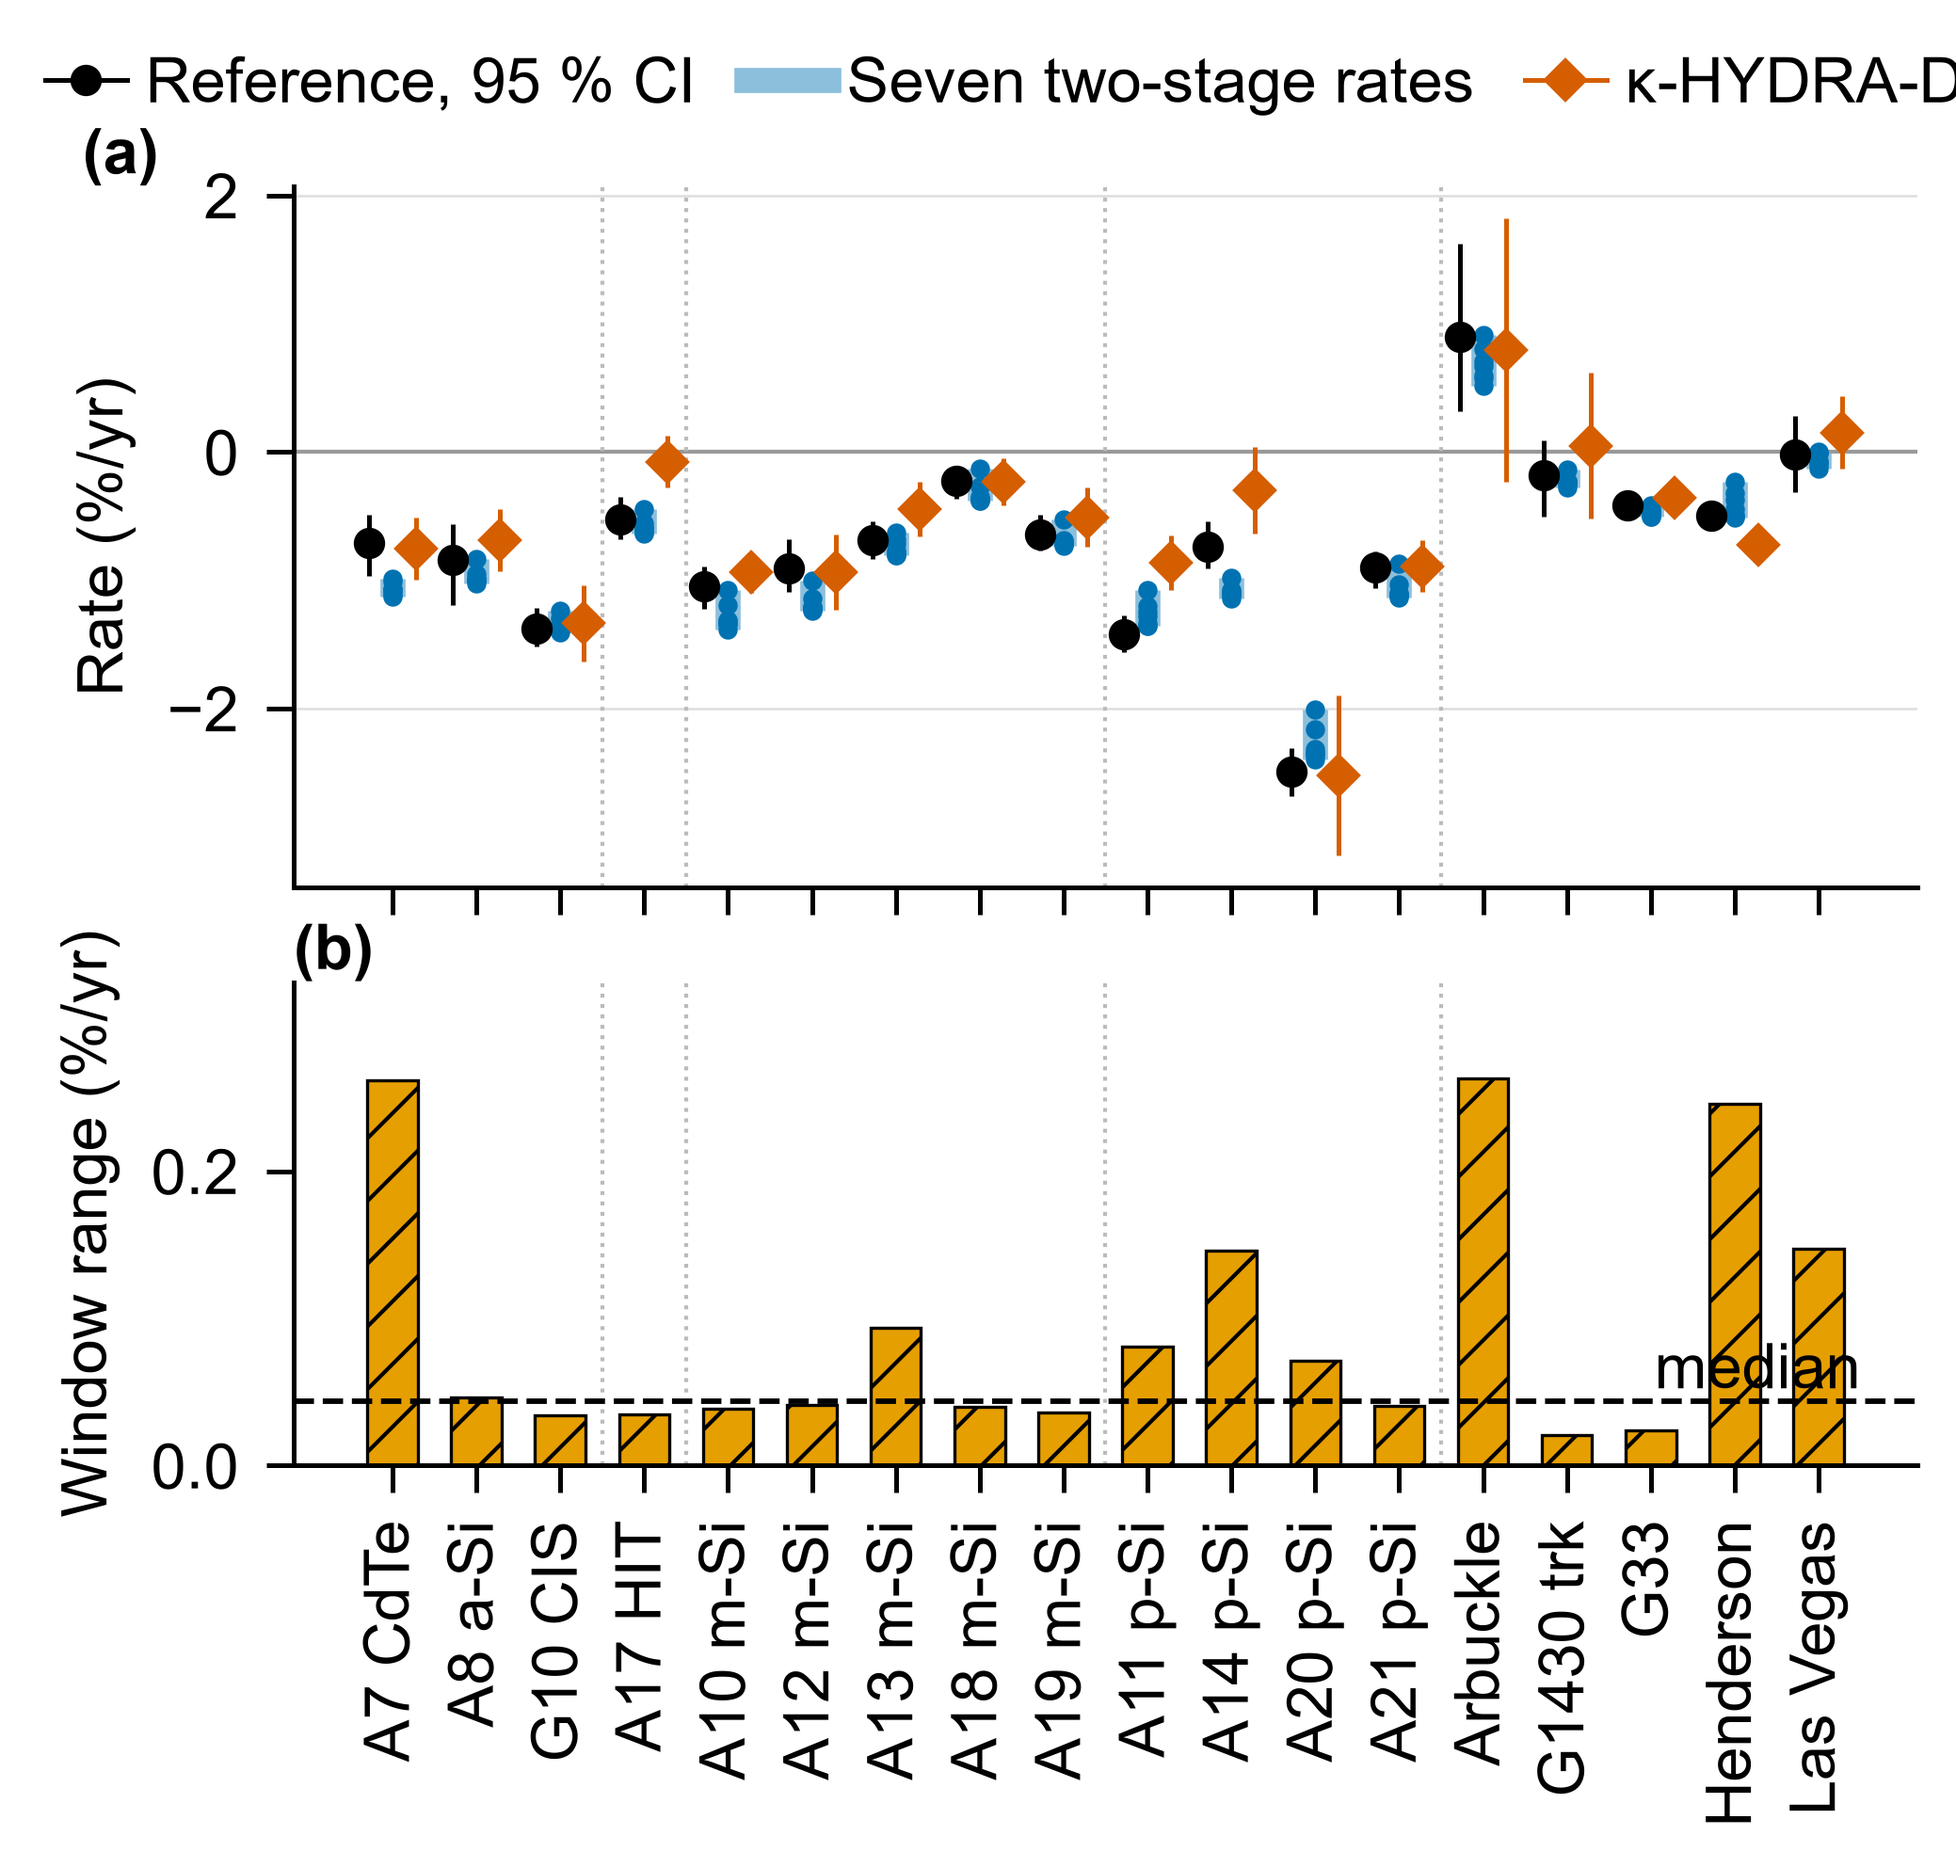
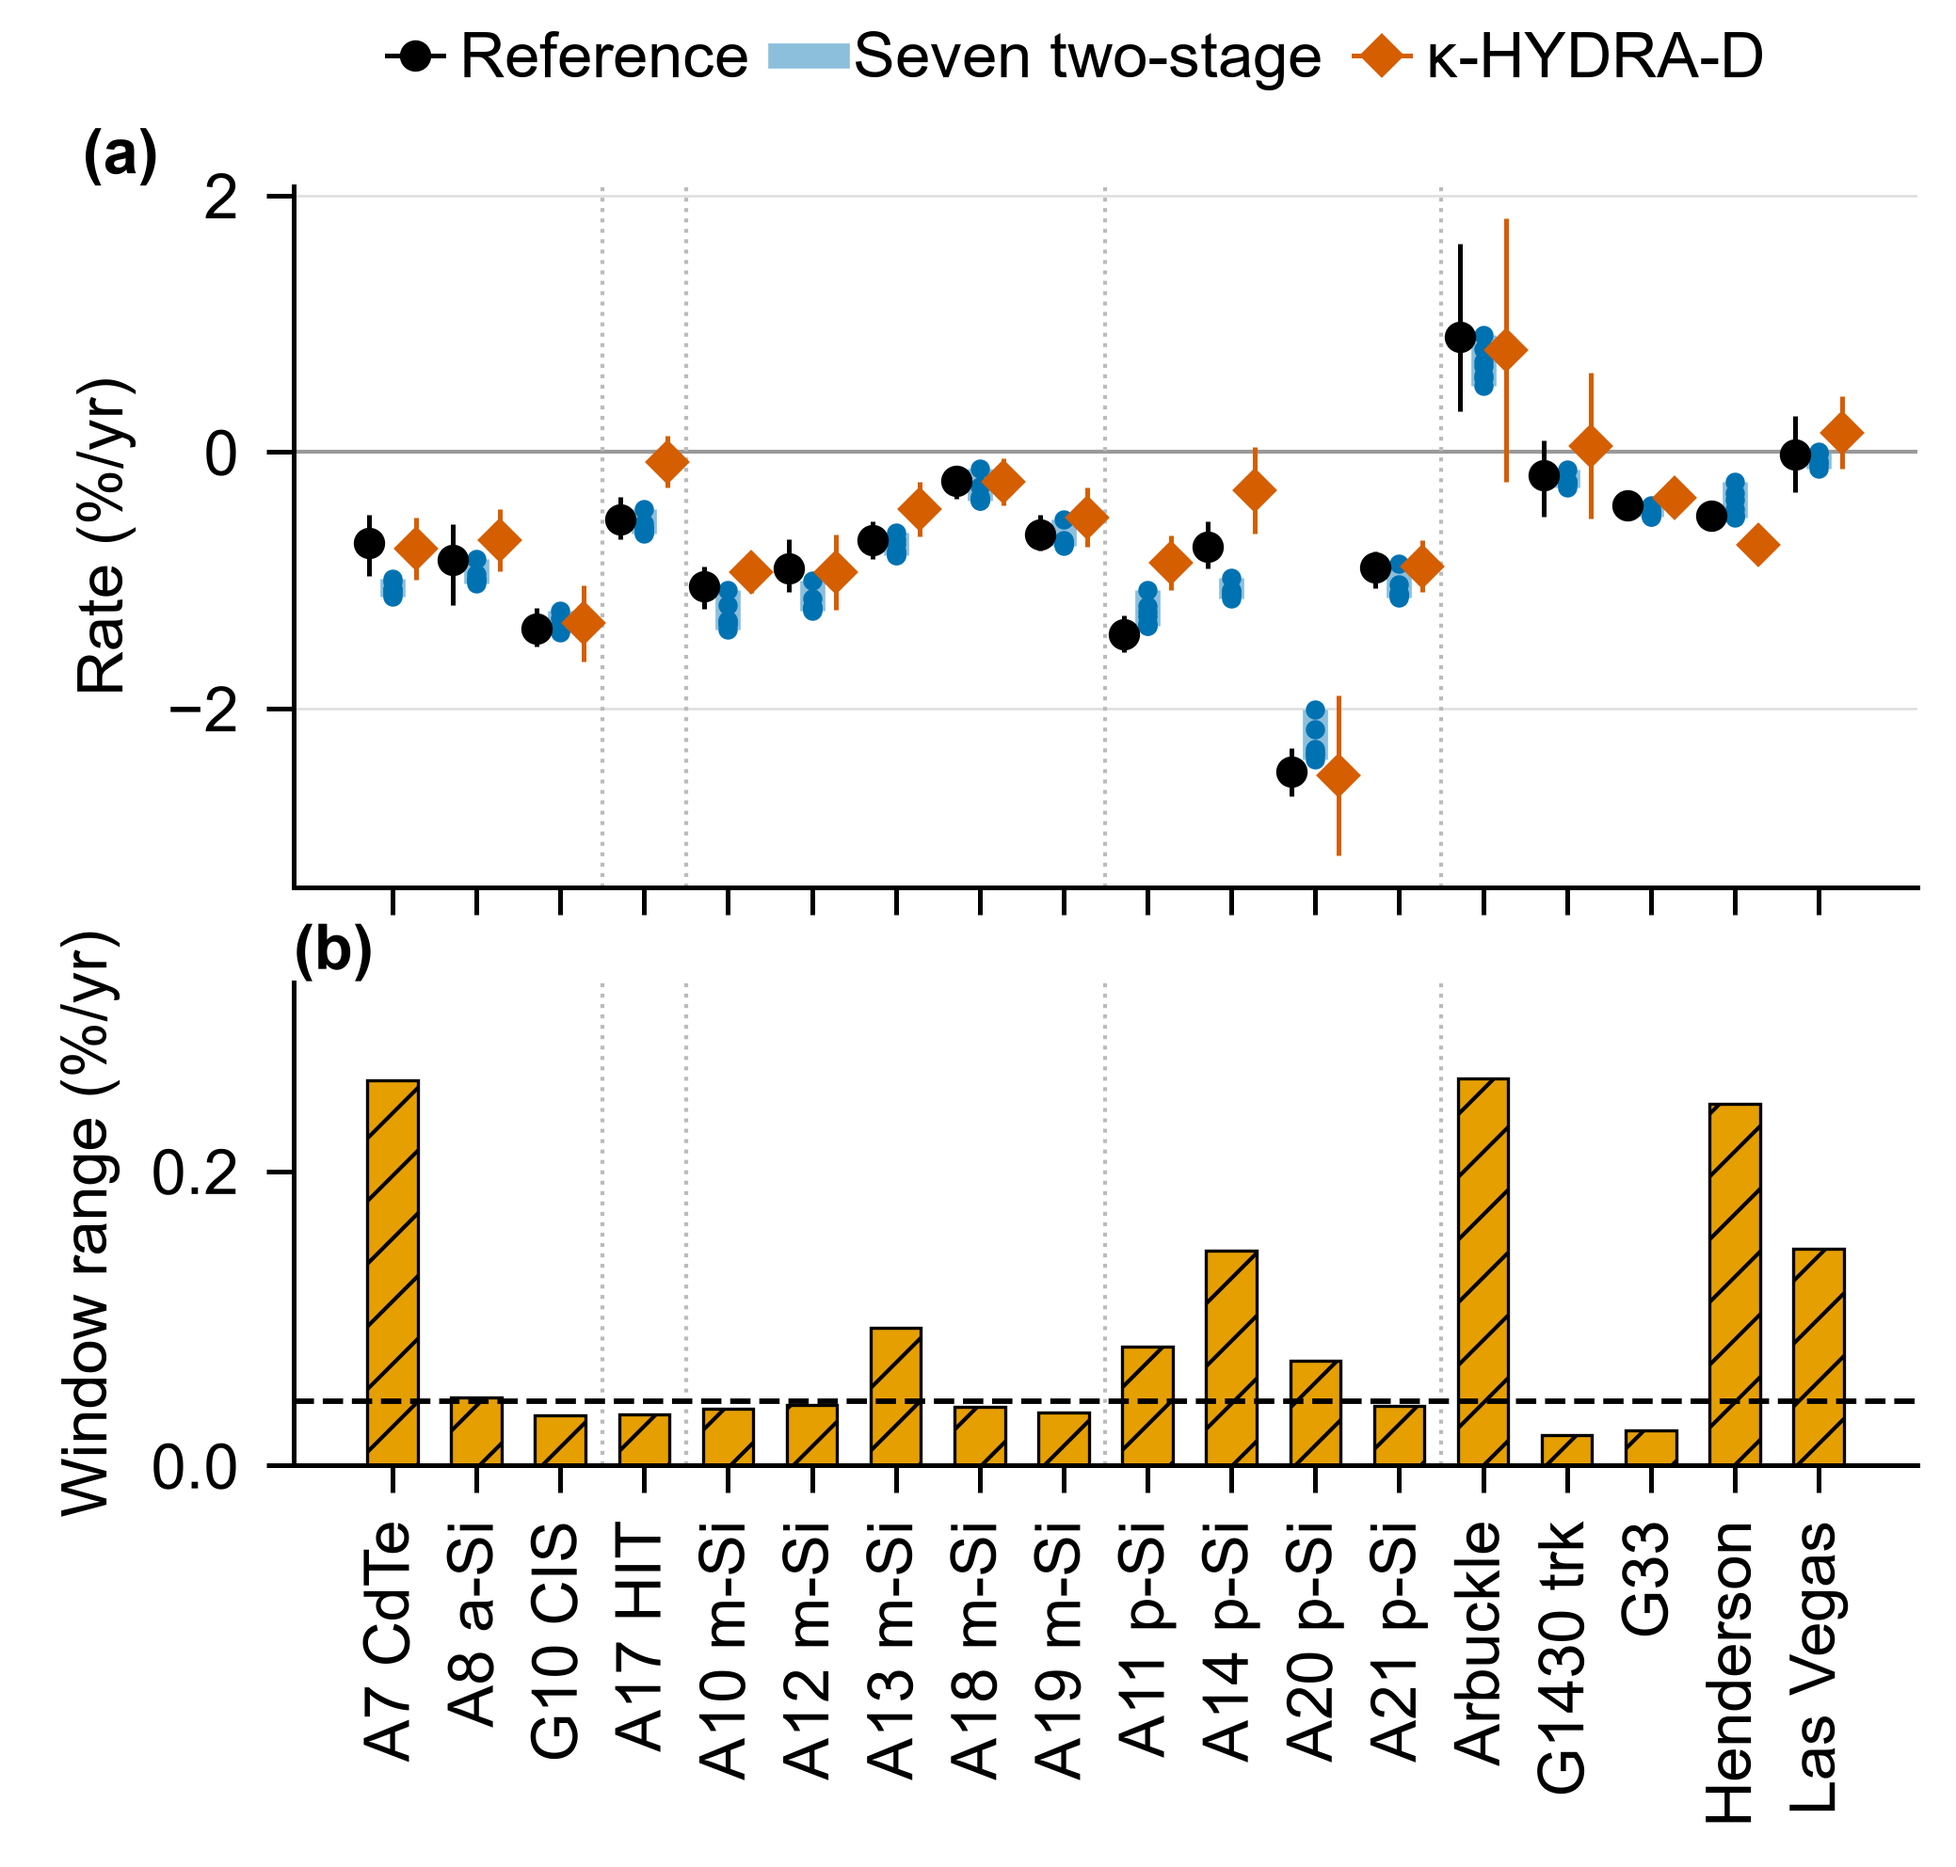
Benchmark version: fixed-mask injection on 18 systems, 2x2 comparison, information-equal variants, reference variants, single-diode generator, loss profiles; updated ledger and figures

Changed region(s): [[0.0308, 0.0, 1.0, 0.0625], [0.8316, 0.7188, 0.9548, 0.75]]

diff --git a/paper/scripts/make_paper_figures.py b/paper/scripts/make_paper_figures.py
@@ -239,18 +239,17 @@ def fig3() -> None:
     for ax_ in axes:
         for bnd in bounds:
             ax_.axvline(bnd - 0.5, color="#bbbbbb", lw=0.5, ls=":")
-    fig.legend(handles=[Line2D([], [], marker="o", color="black", ms=3, lw=0.6, label="Reference, 95 % CI"),
-                        Line2D([], [], color=OI["blue"], lw=3.2, alpha=0.45, label="Seven two-stage rates"),
-                        Line2D([], [], marker="D", color=OI["verm"], ms=3, lw=0.6, label="κ-HYDRA-D, 95 % CI")],
-               loc="upper center", bbox_to_anchor=(0.58, 1.0), ncol=3, frameon=False, handlelength=1.3,
-               columnspacing=0.8, handletextpad=0.3)
+    fig.legend(handles=[Line2D([], [], marker="o", color="black", ms=3, lw=0.6, label="Reference"),
+                        Line2D([], [], color=OI["blue"], lw=3.2, alpha=0.45, label="Seven two-stage"),
+                        Line2D([], [], marker="D", color=OI["verm"], ms=3, lw=0.6, label="κ-HYDRA-D")],
+               loc="upper center", bbox_to_anchor=(0.55, 1.0), ncol=3, frameon=False, handlelength=0.9,
+               columnspacing=0.5, handletextpad=0.25, borderaxespad=0.1)
     a.text(-0.13, 1.0, "(a)", transform=a.transAxes, ha="left", va="bottom", fontsize=8, fontweight="bold")
     bax = axes[1]
     rngw = win.reindex(order).window_range.to_numpy()
     bax.bar(x, rngw, width=0.6, color=OI["orange"], edgecolor="black", lw=0.4, hatch="///")
     med = float(np.nanmedian(rngw))
     bax.axhline(med, color="black", lw=0.7, ls="--")
-    bax.text(len(order) - 0.5, med, "median", ha="right", va="bottom")
     bax.set_ylabel("Window range (%/yr)")
     bax.spines[["top", "right"]].set_visible(False)
     bax.set_xticks(x, [SYSTEMS[s][0] for s in order], rotation=90)
